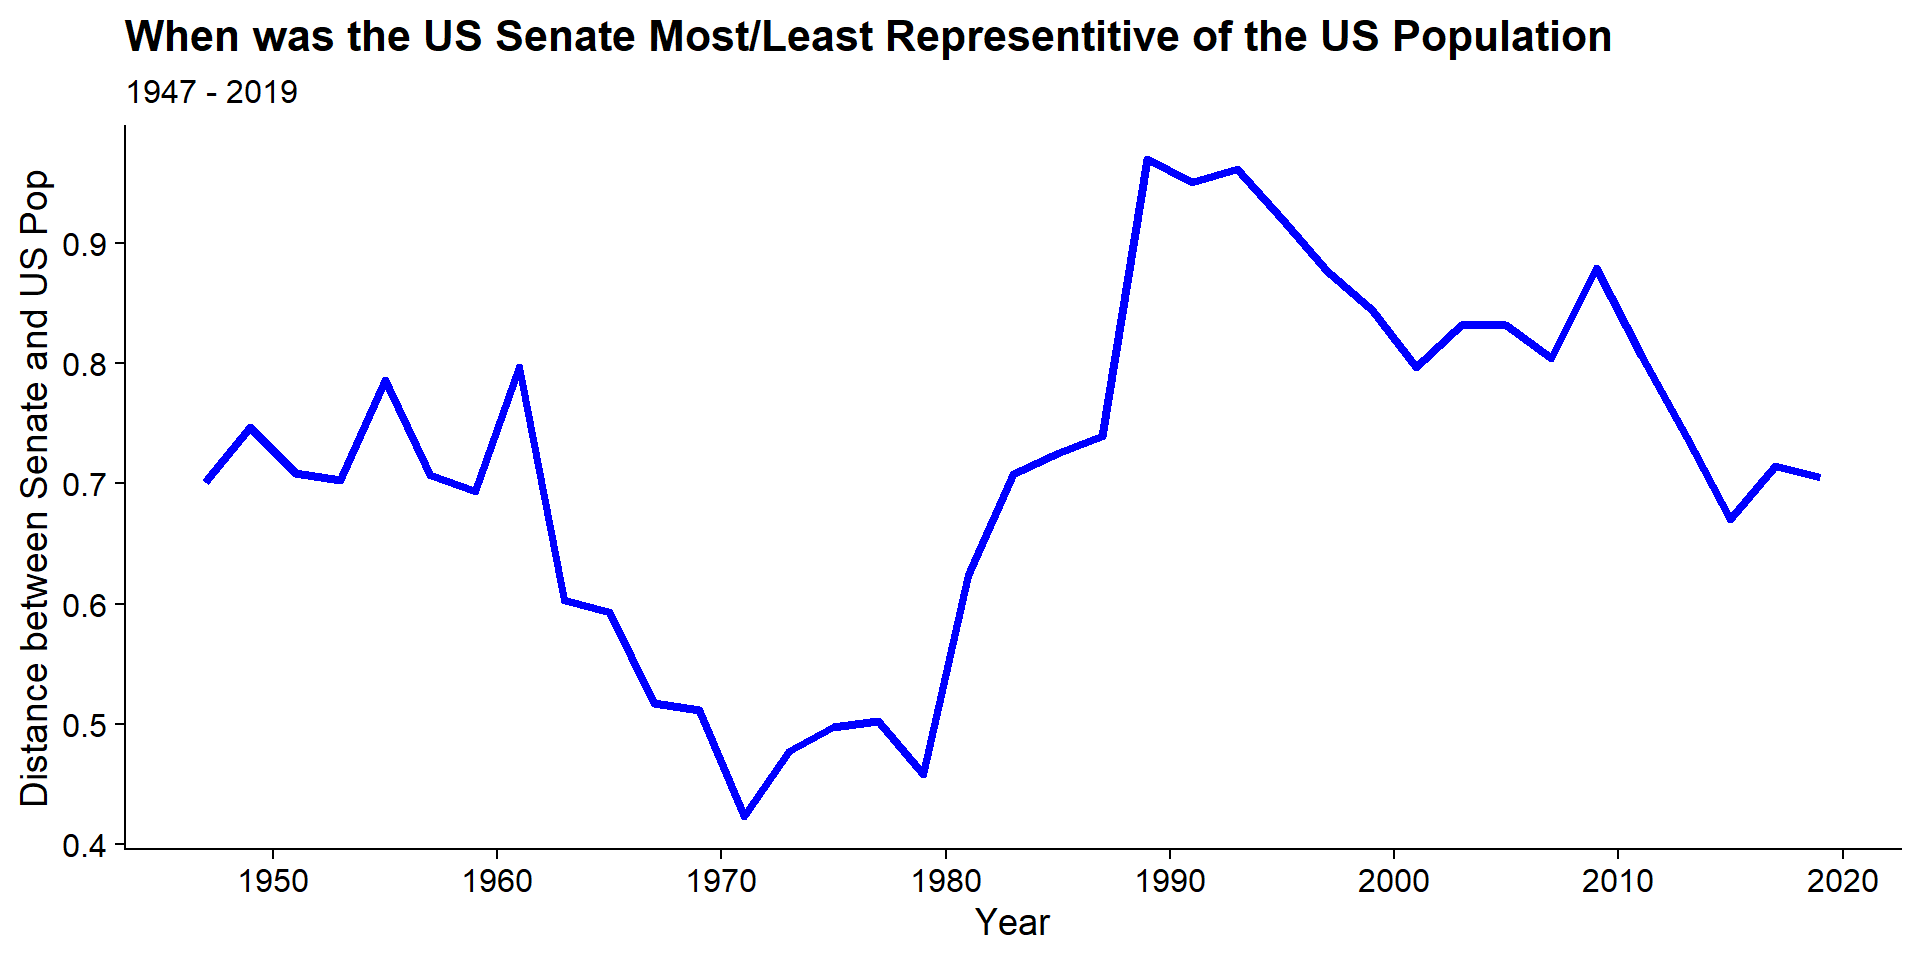
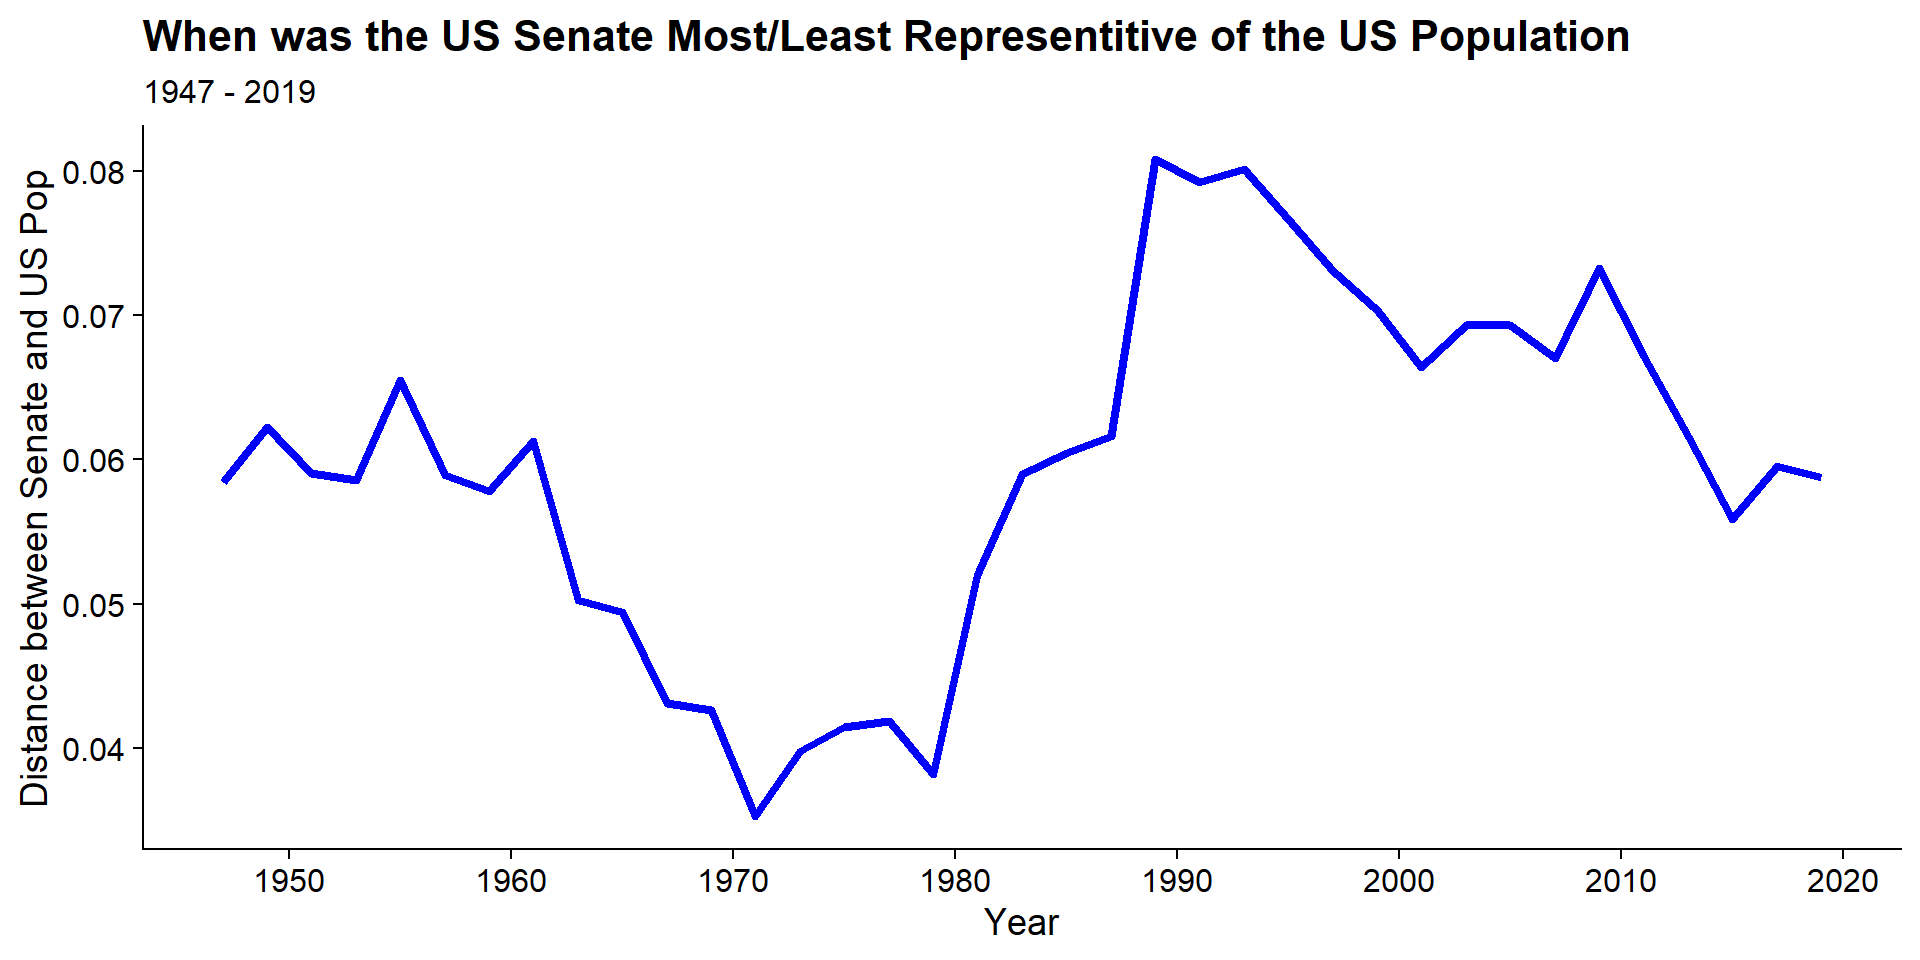
updating distance metric

diff --git a/content/post/2021-02-01-when-did-the-us-senate-best-reflect-the-us-population/index.html b/content/post/2021-02-01-when-did-the-us-senate-best-reflect-the-us-population/index.html
@@ -12,7 +12,7 @@ tags:
 subtitle: ''
 summary: ''
 authors: []
-lastmod: '2021-01-24T16:06:21-05:00'
+lastmod: '2021-02-01T16:06:21-05:00'
 featured: no
 image:
   caption: ''
@@ -422,7 +422,7 @@ knitr::kable(head(pop_senate_merged, 3))</code></pre>
   filter(year %% 2 == 1, year != 2021) %&gt;%
   # Add Up Absolute Deviations
   group_by(year) %&gt;% 
-  summarize(distance = sum(distance))</code></pre>
+  summarize(distance = mean(distance))</code></pre>
 <p>Then the dissimilarity over time can be plotted:</p>
 <pre class="r"><code>dist_measures %&gt;% 
   ggplot(aes(x = year, y = distance)) + 
